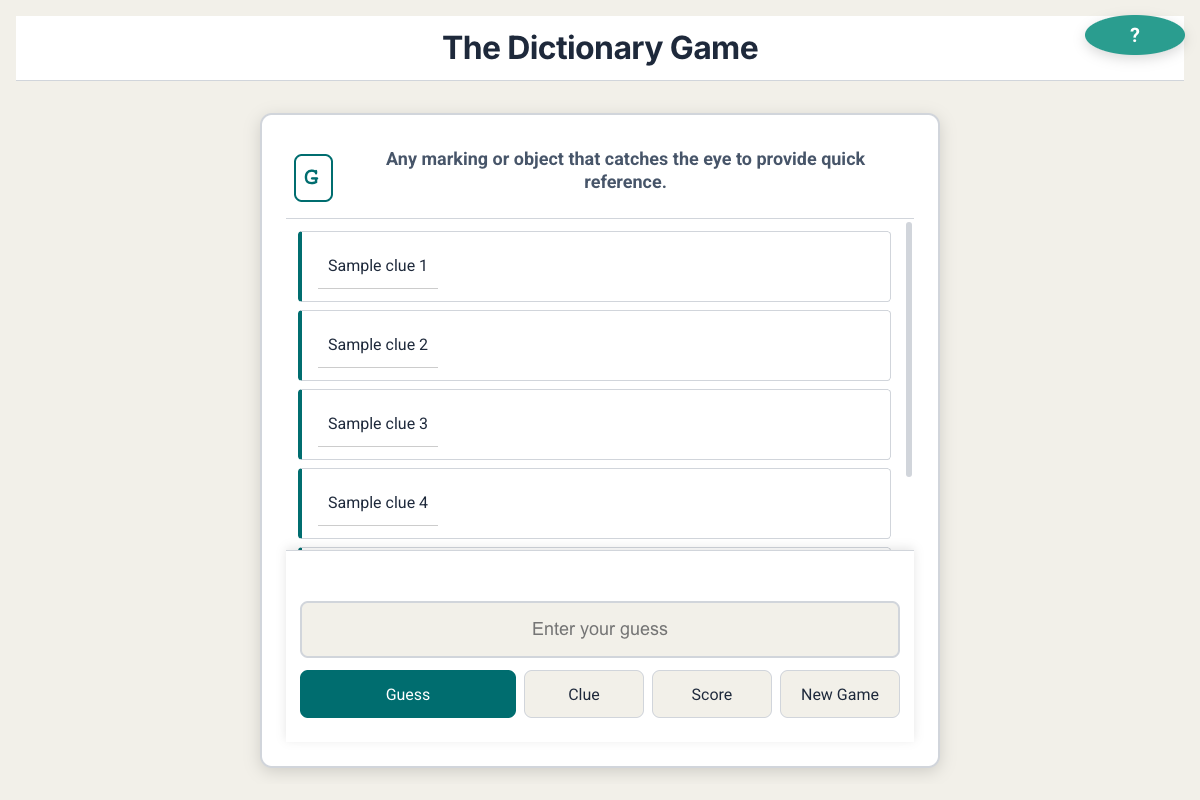
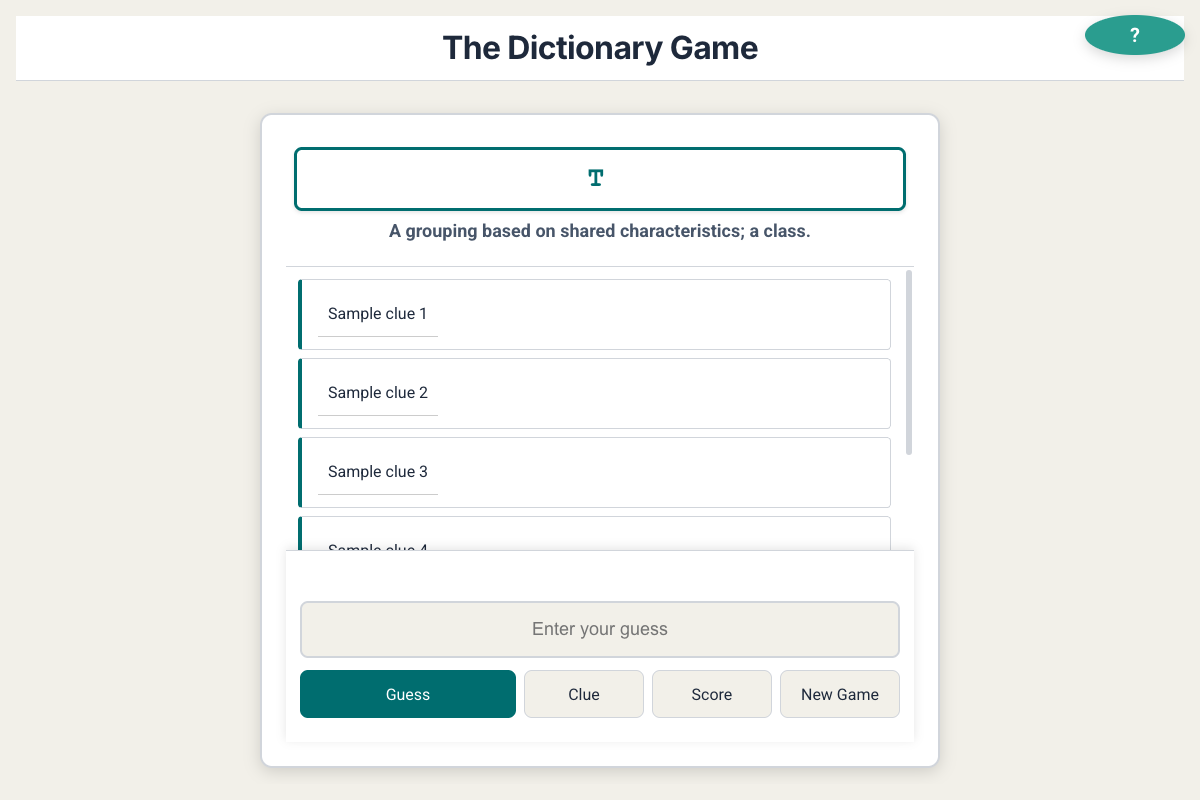
Redesign header with prominent word pattern box
- Keep word pattern in a prominent, well-defined box
- Stack elements vertically for clarity
- Maintain compact sizing with optimized padding
- Header uses ~15% of viewport (good balance of visibility and space)
- Clear visual hierarchy with letter box and definition

🤖 Generated with [Claude Code](https://claude.ai/code)

diff --git a/src/css/mobile-first.css b/src/css/mobile-first.css
@@ -98,25 +98,20 @@ body.popup-open {
     border-bottom: 1px solid var(--border-default);
 }
 
-/* Compact header layout */
-.header-content {
-    display: flex;
-    align-items: center;
-    gap: var(--space-3);
-}
-
-/* Compact word pattern display */
-.word-pattern-compact {
+/* Word pattern box - prominent but compact */
+.word-pattern-box {
     font-family: 'Courier New', monospace;
-    font-size: 1.5rem;
+    font-size: 1.75rem;
     font-weight: bold;
     color: var(--primary-600);
-    letter-spacing: 0.2em;
-    padding: var(--space-1) var(--space-2);
-    border: 2px solid var(--primary-600);
+    letter-spacing: 0.3em;
+    padding: var(--space-2) var(--space-3);
+    border: 3px solid var(--primary-600);
     border-radius: var(--radius-m);
-    background: var(--bg-subtle);
-    flex-shrink: 0;
+    background: var(--zinc-50);
+    text-align: center;
+    margin-bottom: var(--space-2);
+    box-shadow: 0 2px 4px rgba(0, 0, 0, 0.1);
 }
 
 /* Compact primary definition */
@@ -129,17 +124,19 @@ body.popup-open {
 
 /* Mobile optimizations for header */
 @media (max-width: 480px) {
-    .header-content {
-        gap: var(--space-2);
-    }
-    
-    .word-pattern-compact {
-        font-size: 1.25rem;
-        padding: 2px var(--space-2);
+    .word-pattern-box {
+        font-size: 1.5rem;
+        padding: var(--space-1) var(--space-2);
+        margin-bottom: var(--space-1);
     }
     
     .primary-definition-compact {
         font-size: 0.875rem;
+        line-height: 1.2;
+    }
+    
+    .guess-card-header {
+        padding: var(--space-1) var(--space-2);
     }
 }
 

diff --git a/index.html b/index.html
@@ -32,10 +32,8 @@
                 
                 <!-- Sticky Header Section -->
                 <div class="guess-card-header" id="guess-card-header" style="display: none;">
-                    <div class="header-content">
-                        <div id="word-pattern" class="word-pattern-compact"></div>
-                        <div id="primary-definition" class="primary-definition-compact"></div>
-                    </div>
+                    <div id="word-pattern" class="word-pattern-box"></div>
+                    <div id="primary-definition" class="primary-definition-compact"></div>
                 </div>
                 
                 <!-- Scrollable Middle Section -->
